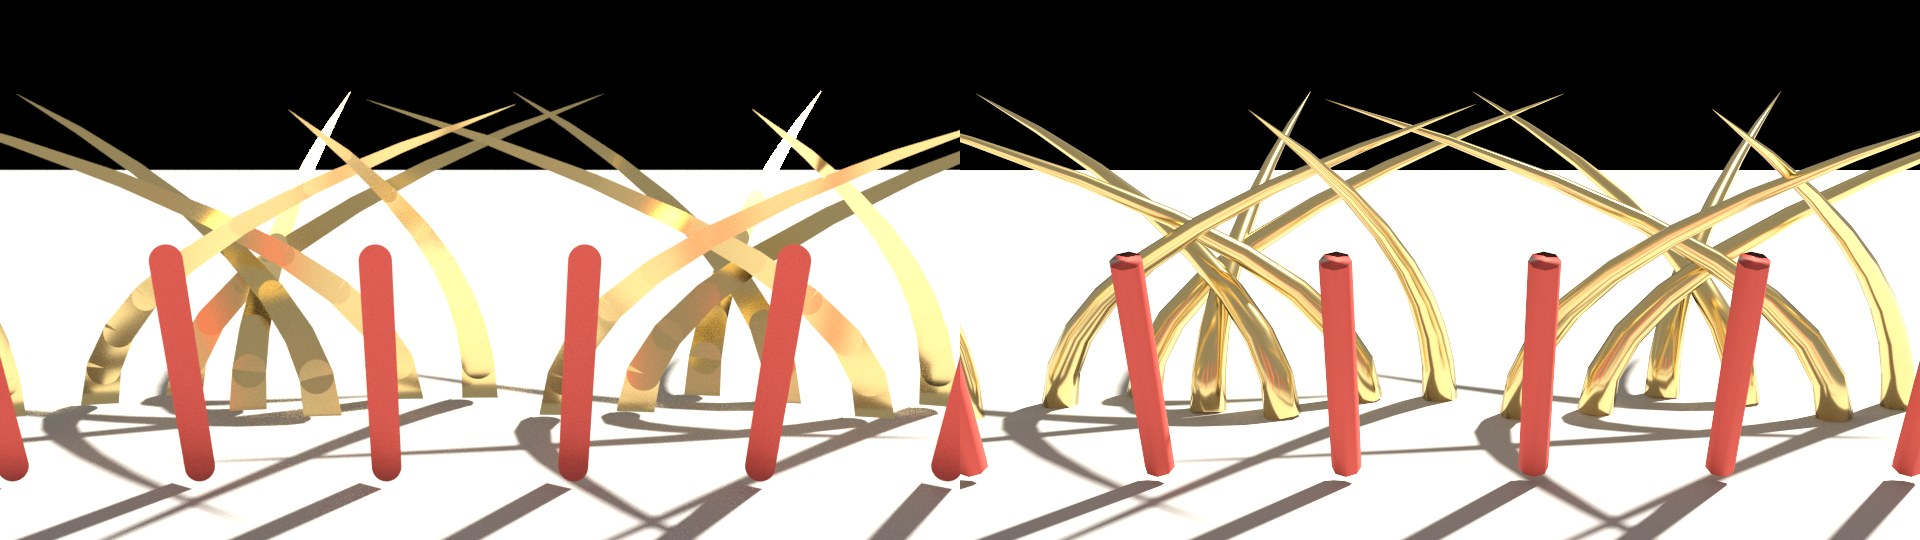
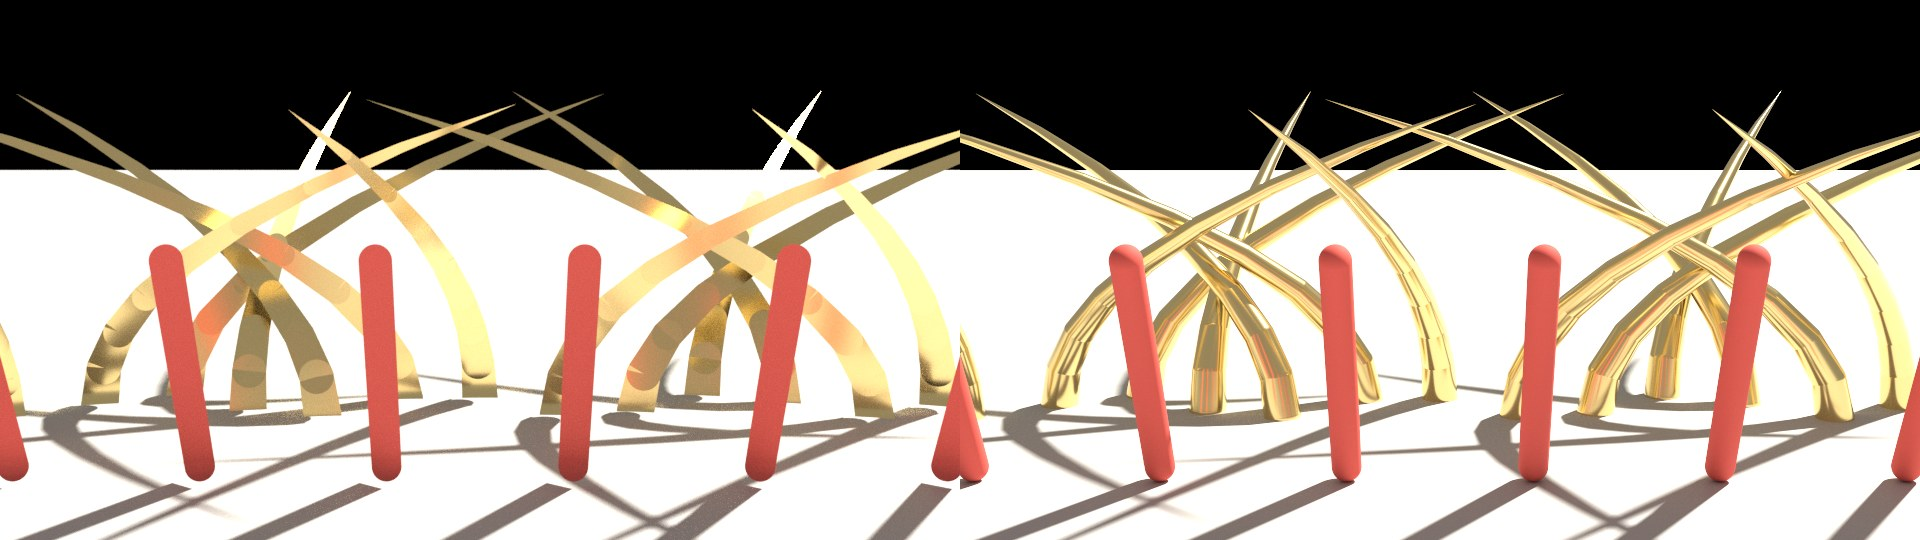
Draw even fog in MoonLightIPR, and have MoonRay fill a shape item that holds a volume
MoonLightIPR draws a BaseVolume with constant values in a MoonRay box or sphere shape: it dims and tints what is
behind it, scatters the lamps' light once with its anisotropy, glows with its emission, and thins the shadows that
pass through it. Against MoonRay: brightness 1.03 to 1.04, 80 to 89 per cent of the picture within a tenth.

MoonRay itself showed nothing for a volume on its own box or sphere, which it does not fill. Such a shape is now
written to MoonRay as a mesh of the same shape, which it does.

The READMEs say what is now drawn: curves as curves, hair, skin, fog and pictures on every kind of light.

diff --git a/kit/MoonRayForModo/python/moonray_modo/entities.py b/kit/MoonRayForModo/python/moonray_modo/entities.py
@@ -716,6 +716,17 @@ def emit_geometry(scene, materials, lines):
             from . import primitive_attributes
             held = primitive_attributes.emit('/modo/entity/%s/attribute' % entity['identity'], [entity['attributes']], lines)
         name, body = block(entities, entity)
+        if entity['parameters'].get('modo_volume') and entity['class'] in ('BoxGeometry', 'SphereGeometry'):
+            # MoonRay fills a mesh with a volume but not its own box or sphere, in which nothing shows. A shape that
+            # holds one is therefore written as the mesh of that shape.
+            from .rdla import matrix
+            vertices, faces = box(value(entity, 'size')) if entity['class'] == 'BoxGeometry' else sphere(float(value(entity, 'radius')))
+            name = 'RdlMeshGeometry(%s)' % string('/modo/entity/' + entity['identity'])
+            body = [name + ' {', '  ["node_xform"] = %s,' % matrix(entity.get('matrix', IDENTITY)),
+                    '  ["vertex_list_0"] = {%s},' % ', '.join('Vec3(%r, %r, %r)' % tuple(float(v) for v in vertex) for vertex in vertices),
+                    '  ["vertices_by_index"] = {%s},' % ', '.join(str(index) for face in faces for index in face),
+                    '  ["face_vertex_count"] = {%s},' % ', '.join(str(len(face)) for face in faces),
+                    '  ["is_subd"] = false,', '}']
         tag = entity['parameters'].get('modo_material', '')
         if tag not in materials:
             tag = ''
@@ -799,6 +810,24 @@ def sphere(radius, segments=48, rings=24):
     return vertices, faces
 
 
+def even_fog(entities, name):
+    """The volume of that name as an even fog: what it stops in a unit of distance, what of that it scatters on, what
+    it gives off and which way it scatters. None unless it is a BaseVolume with one value all through, without ramps."""
+    from .working_space import color as working_color
+    found = next((e for e in entities if e['name'] == name and e['class'] == 'BaseVolume'), None)
+    if found is None or value(found, 'use_attenuation_ramp') or value(found, 'use_diffuse_ramp') or found['parameters'].get('densities'):
+        return None
+    white = [1.0, 1.0, 1.0]
+    stops = [float(v) for v in (value(found, 'attenuation_color') or white)]
+    if value(found, 'invert_attenuation_color'):
+        stops = [1.0 - v for v in stops]
+    strength = float(value(found, 'attenuation_intensity')) * float(value(found, 'attenuation_factor'))
+    return {'extinction': [max(0.0, v) * strength for v in working_color(stops)],
+            'albedo': working_color([float(v) for v in (value(found, 'diffuse_color') or white)]),
+            'emission': [v * float(value(found, 'emission_intensity')) for v in working_color([float(v) for v in (value(found, 'emission_color') or [0.0] * 3)])],
+            'anisotropy': float(value(found, 'anisotropy') or 0.0)}
+
+
 def emitting_area(name, light):
     """What MoonRay divides a normalized light's brightness by: pi times its surface, or for a distant light the squared
     sine of its disc's radius. None for a kind of light this is not worked out for."""
@@ -826,6 +855,7 @@ def preview(scene, warnings):
     if not entities:
         return scene
     lights, environments, meshes = list(scene.get('lights', [])), list(scene.get('environments', [])), list(scene.get('meshes', []))
+    materials = dict(scene.get('materials', {}))
     scene = mesh_lights(scene, warnings)
     skipped = {}
     camera = scene['camera']
@@ -882,12 +912,18 @@ def preview(scene, warnings):
                 light['soft_edge'] = max(0.0, light['cone'] - float(value(entity, 'inner_cone_angle'))) / 2
             lights.append(light)
         elif name in ('BoxGeometry', 'SphereGeometry'):
-            if entity['parameters'].get('modo_volume'):
-                skipped.setdefault('volumes', []).append(label)
-                continue
             vertices, faces = box(value(entity, 'size')) if name == 'BoxGeometry' else sphere(float(value(entity, 'radius')))
             mesh = {'name': label, 'identity': entity['identity'], 'vertices': vertices, 'faces': faces, 'matrix': matrix,
                     'material': entity['parameters'].get('modo_material', ''), 'smooth': name == 'SphereGeometry'}
+            if entity['parameters'].get('modo_volume'):
+                # A shape that holds a fog and has no material is the fog alone, which MoonLightIPR draws when it is
+                # the same all through.
+                fog = even_fog(entities_checked, entity['parameters']['modo_volume'])
+                if fog is None or entity['parameters'].get('modo_material'):
+                    skipped.setdefault('volumes', []).append(label)
+                    continue
+                mesh['material'] = '|volume|' + entity['identity']
+                materials[mesh['material']] = {'color': [0.0, 0.0, 0.0], 'roughness': 1.0, 'metallic': 0, '_volume': fog}
             meshes.append(mesh)
         elif category == 'lightfilter':
             # A filter shows through the lights that name it; what cannot be applied is said there.
@@ -905,4 +941,4 @@ def preview(scene, warnings):
             skipped.setdefault(name, []).append(label)
     for name, labels in sorted(skipped.items()):
         warnings.append('MoonLightIPR does not show %s (%s).' % (name, ', '.join(labels[:6]) + (' ...' if len(labels) > 6 else '')))
-    return dict(scene, camera=camera, lights=lights, environments=environments, meshes=meshes, entities=[])
+    return dict(scene, camera=camera, lights=lights, environments=environments, meshes=meshes, materials=materials, entities=[])

diff --git a/moonlightipr/src/renderer.cpp b/moonlightipr/src/renderer.cpp
@@ -230,7 +230,7 @@ struct Renderer::Impl {
     std::vector<int32_t> distantTextures;
     std::vector<Instance> instances;
     size_t materialCount = 0, layerCount = 0, lightCount = 0;
-    Buffer meshTable, instanceTable, materialTable, layerTable, tileTable, hairTable, albedoTables, instanceInput, instanceAccel, accelTemp;
+    Buffer meshTable, instanceTable, materialTable, layerTable, tileTable, hairTable, volumeTable, albedoTables, instanceInput, instanceAccel, accelTemp;
     Buffer envPixels, envBackground, envMarginal, envConditional, distantLights, lights, lightTriangles, lightFilters;
     Buffer beauty, albedo, normal, denoised, lighting, paramsBuffer;
 
@@ -264,7 +264,8 @@ struct Renderer::Impl {
         moduleOptions.maxRegisterCount = OPTIX_COMPILE_DEFAULT_MAX_REGISTER_COUNT;
         OptixPipelineCompileOptions pipelineOptions = {};
         pipelineOptions.traversableGraphFlags = OPTIX_TRAVERSABLE_GRAPH_FLAG_ALLOW_SINGLE_LEVEL_INSTANCING;
-        pipelineOptions.numPayloadValues = 2;
+        // Two words carry a radiance ray's hit record; a ray looking for a light uses all eight to add up the fog it crosses.
+        pipelineOptions.numPayloadValues = 8;
         pipelineOptions.numAttributeValues = 2;
         pipelineOptions.exceptionFlags = OPTIX_EXCEPTION_FLAG_NONE;
         pipelineOptions.pipelineLaunchParamsVariableName = "params";
@@ -345,8 +346,9 @@ struct Renderer::Impl {
 
     // refit moves an existing structure to the vertices now in the mesh's buffer.
     void buildMesh(Mesh& mesh, size_t vertexCount, size_t triangleCount, bool refit = false) {
-        // Rays switch the any-hit test off themselves unless the scene has a partly absent material.
-        const unsigned flags = OPTIX_GEOMETRY_FLAG_NONE;
+        // Rays switch the any-hit test off themselves unless the scene has a partly absent material or a fog, whose
+        // edges must each be counted once.
+        const unsigned flags = OPTIX_GEOMETRY_FLAG_REQUIRE_SINGLE_ANYHIT_CALL;
         OptixBuildInput input = {};
         input.type = OPTIX_BUILD_INPUT_TYPE_TRIANGLES;
         input.triangleArray.vertexBuffers = &mesh.positions.ptr;
@@ -807,6 +809,22 @@ void Renderer::setMaterials(const Material* materials, size_t count, const Layer
     }
     impl->hairTable.upload(hairs);
     impl->params.hairs = impl->hairTable.ptr;
+    std::vector<DeviceVolume> volumes;
+    for (size_t i = 0; i < count; ++i) {
+        if (!materials[i].volume) continue;
+        DeviceVolume fog{};
+        for (int c = 0; c < 3; ++c) {
+            fog.extinction[c] = std::max(materials[i].volumeExtinction[c], 0.0f);
+            fog.albedo[c] = std::clamp(materials[i].volumeAlbedo[c], 0.0f, 1.0f);
+            fog.emission[c] = std::max(materials[i].volumeEmission[c], 0.0f);
+        }
+        fog.anisotropy = std::clamp(materials[i].volumeAnisotropy, -0.99f, 0.99f);
+        table[i].flags = (table[i].flags & ~MATERIAL_HAIR) | MATERIAL_VOLUME;
+        table[i].hair = unsigned(volumes.size());
+        volumes.push_back(fog);
+    }
+    impl->volumeTable.upload(volumes);
+    impl->params.volumes = impl->volumeTable.ptr;
     // Layers and textures are followed on the GPU without checks, so settle them here.
     for (const DeviceMaterial& material : table)
         if (size_t(material.layerStart) + material.layerCount > layerCount) throw std::runtime_error("MoonLightIPR material refers to missing layers");
@@ -875,7 +893,7 @@ void Renderer::setMaterials(const Material* materials, size_t count, const Layer
         for (unsigned i = 0; i < material.layerCount; ++i)
             if (layerTable[material.layerStart + i].channel == CHANNEL_DISSOLVE) material.flags |= MATERIAL_HAS_PRESENCE;
             else if (layerTable[material.layerStart + i].channel == CHANNEL_BUMP && material.bumpStrength != 0.0f) material.flags |= MATERIAL_HAS_BUMP;
-        if (material.flags & MATERIAL_HAS_PRESENCE) impl->params.presence = 1;
+        if (material.flags & (MATERIAL_HAS_PRESENCE | MATERIAL_VOLUME)) impl->params.presence = 1;
     }
     impl->layerTable.upload(layerTable);
     impl->params.layers = impl->layerTable.ptr;

diff --git a/moonlightipr/src/device/shared.h b/moonlightipr/src/device/shared.h
@@ -24,6 +24,7 @@ const unsigned MATERIAL_THIN = 1, MATERIAL_COAT_DIMS = 2, MATERIAL_HAS_PRESENCE 
                MATERIAL_BECKMANN = 16,  // the specular lobe is Beckmann, as for material stacks, not GGX
                MATERIAL_CONDUCTOR = 32, // a metal reflects as DwaBaseMaterial's does, not by Schlick's curve
                MATERIAL_HAIR = 64,      // on a curve, the strand scatters light as a hair fibre does
+               MATERIAL_VOLUME = 128,   // the surface is only the edge of a fog that fills the shape
                MATERIAL_MATTE = 1u << 30;   // set by the kernel alone, where light leaves from beneath a surface
 const unsigned LAYER_IMAGE = 1, LAYER_INVERT = 2, LAYER_FLIP_RED = 4, LAYER_FLIP_GREEN = 8, LAYER_FLIP_BLUE = 16,
                LAYER_ALPHA_MASK = 32, LAYER_ALPHA_ONLY = 64, LAYER_COVERAGE_U = 128, LAYER_COVERAGE_V = 256,
@@ -90,7 +91,18 @@ struct DeviceMaterial {
     float absorptionDistance;   // depth of a solid at which light has its transmission colour; 0 for none
     float abbe;                 // Abbe number of a dispersive solid; 0 for none
     float specular;             // weight of the dielectric's reflection
-    unsigned hair;              // with MATERIAL_HAIR, this material's entry in LaunchParams::hairs
+    unsigned hair;              // with MATERIAL_HAIR, this material's entry in LaunchParams::hairs; with MATERIAL_VOLUME, in volumes
+};
+
+// An even fog, as MoonRay's BaseVolume with constant values: how much light it stops in a unit of distance, how
+// much of what it stops is scattered on rather than absorbed, what it gives off, and which way it scatters.
+struct DeviceVolume {
+    float extinction[3];
+    float anisotropy;           // -1 back the way the light came, 0 evenly, 1 straight on
+    float albedo[3];
+    float pad0;
+    float emission[3];
+    float pad1;
 };
 
 // A hair fibre, as MoonRay's HairMaterial: light reflected off it (R), passed through it (TT), reflected once
@@ -200,6 +212,7 @@ struct LaunchParams {
     DevicePtr layers;       // DeviceLayer, indexed from DeviceMaterial::layerStart
     DevicePtr albedo2;      // float, two ALBEDO_TABLE runs: GGX, then Beckmann
     DevicePtr hairs;        // DeviceHair, indexed by DeviceMaterial::hair
+    DevicePtr volumes;      // DeviceVolume, likewise
 
     // Latitude-longitude environment with a piecewise-constant sampling distribution.
     DevicePtr envPixels;        // float[4], envWidth * envHeight; what lights the scene
@@ -232,7 +245,7 @@ struct LaunchParams {
     unsigned maxDiffuseDepth;   // of those, how many may leave a diffuse lobe
     unsigned maxGlossyDepth;    // and how many a specular lobe
     float sampleClamp;      // largest value of one light sample after the first bounce; 0 is unlimited
-    unsigned presence;      // some material can be partly absent, so rays must run the any-hit test
+    unsigned presence;      // some material can be partly absent or is a fog's edge, so rays must run the any-hit test
 
     unsigned long long traversable;
 

diff --git a/kit/MoonRayForModo/python/moonray_modo/moonlightipr_materials.py b/kit/MoonRayForModo/python/moonray_modo/moonlightipr_materials.py
@@ -28,7 +28,7 @@ FOLDED = {'diffCol': None, 'diffAmt': (-math.inf, math.inf), 'rough': (0, 1), 'm
           'coatRough': (0, 1), 'dissolve': (0, 1), 'aniso': (-1, 1), 'subsAmt': (0, 1), 'subsCol': None}
 LAYER_GROUP_BEGIN, LAYER_GROUP_END, LAYER_MASK_BASE, MASK_REGISTERS, GROUP_DEPTH = 32, 33, 40, 4, 4
 LAYER_MASKED, LAYER_MASK_SHIFT = 1 << 11, 12
-MATERIAL_THIN, MATERIAL_COAT_DIMS, MATERIAL_BECKMANN, MATERIAL_CONDUCTOR, MATERIAL_HAIR = 1, 2, 16, 32, 64
+MATERIAL_THIN, MATERIAL_COAT_DIMS, MATERIAL_BECKMANN, MATERIAL_CONDUCTOR, MATERIAL_HAIR, MATERIAL_VOLUME = 1, 2, 16, 32, 64, 128
 LAYER_INVERT, LAYER_FLIP_RED, LAYER_FLIP_GREEN, LAYER_FLIP_BLUE = 2, 4, 8, 16
 LAYER_ALPHA_MASK, LAYER_ALPHA_ONLY, LAYER_COVERAGE_U, LAYER_COVERAGE_V, LAYER_PICK_SHIFT = 32, 64, 128, 256, 9
 LAYER_RAMP, LAYER_CHECKER, LAYER_NOISE, LAYER_UDIM = 1 << 16, 1 << 17, 1 << 18, 1 << 19
@@ -926,7 +926,8 @@ class Compiler:
                   + [radius, depth, max(0.0, float(source.get('dispersion_abbe', 0))) if dwa else 0.0, min(1.0, max(0.0, weight))])
         if not all(math.isfinite(v) for v in values):
             raise ValueError('Material %s contains a non-finite number' % name)
-        record = struct.pack('<33f4I', *values, flags | (MATERIAL_HAIR if source.get('_hair') else 0), start, len(self.layers) - start,
+        fog = material.get('_volume')
+        record = struct.pack('<33f4I', *values, flags | (MATERIAL_HAIR if source.get('_hair') else 0) | (MATERIAL_VOLUME if fog else 0), start, len(self.layers) - start,
                              UV_SLOTS if tangent_slot is None else tangent_slot)
         fibre = source.get('_hair')
         if fibre:
@@ -935,4 +936,10 @@ class Compiler:
             if not all(math.isfinite(v) for v in numbers):
                 raise ValueError('Material %s contains a non-finite number' % name)
             record += struct.pack('<19f2I', *numbers, fibre['lobes'], fibre['fresnel'])
+        if fog:
+            # An even fog in place of a surface: what it stops, what of that it scatters on, what it gives off, and which way.
+            numbers = [float(v) for v in list(fog['extinction']) + list(fog['albedo']) + list(fog['emission']) + [fog['anisotropy']]]
+            if not all(math.isfinite(v) for v in numbers):
+                raise ValueError('Material %s contains a non-finite number' % name)
+            record += struct.pack('<10f', *numbers)
         return record

diff --git a/tools/compare_moonlightipr.py b/tools/compare_moonlightipr.py
@@ -375,6 +375,14 @@ def scenes(folder):
                    'color': [.5, .5, .5], 'roughness': .4, 'native_shader': 'HairMaterial_v3', 'native_parameters': dict(values, hair_color=colour)}),
                extra_geometry=[tuft()])
            for name, colour, values in (('dark', [.25, .12, .05], {}), ('fair', [.85, .7, .45], {'primary_specular_roughness': .3}))},
+        # Fog: a block of it between the camera and the scene, lit by the sun and a lamp, thin and thick and coloured.
+        **{'fog_' + name: dict(base, lights=fixture.snapshot()['lights'] + [
+               dict(lamp, identity='side', kind='SphereLight', intensity=80.0, radius=.3, matrix=fixture.placed(-3.0, 2.5, 2.5))], _environment=.3,
+               entities=[{'identity': 'v_fog', 'name': 'Mist', 'class': 'BaseVolume', 'parameters': values},
+                         {'identity': 'g_block', 'name': 'Cloud', 'class': 'BoxGeometry', 'matrix': fixture.placed(0, 1.6, 2.5),
+                          'parameters': {'size': [2.6, 2.6, 2.6], 'modo_volume': 'Mist'}}])
+           for name, values in (('thin', {'attenuation_intensity': .4}), ('thick', {'attenuation_intensity': 2.5}),
+                                ('coloured', {'attenuation_intensity': 1.2, 'attenuation_color': [1.0, .6, .3], 'diffuse_color': [.5, .7, 1.0], 'anisotropy': .4}))},
         'uniform_sky': dict(base, _environment=1.0),
         'gradient_sky': dict(base, environments=fixture.snapshot()['environments']),
         'sphere_light': dict(base, lights=[dict(lamp, kind='SphereLight', intensity=60.0, radius=.4, matrix=fixture.placed(-1, 5, 3))]),

diff --git a/tests/test_moonlightipr.py b/tests/test_moonlightipr.py
@@ -103,7 +103,8 @@ class EntityTests(unittest.TestCase):
         self.assertNotIn('PerspectiveCamera("/modo/camera")',text)
         self.assertIn('["light_filters"] = {RodLightFilter("/modo/entity/rod")}',text)
         self.assertIn('table.insert(lights, SpotLight("/modo/entity/key"))',text)
-        self.assertIn('table.insert(assignments, {BoxGeometry("/modo/entity/box"), "", materials["red"], lightSet, BaseVolume("/modo/entity/fog")})',text)
+        # MoonRay fills a mesh with a volume but not its own box, so a box that holds one goes as a mesh.
+        self.assertIn('table.insert(assignments, {RdlMeshGeometry("/modo/entity/box"), "", materials["red"], lightSet, BaseVolume("/modo/entity/fog")})',text)
         self.assertLess(text.index('table.insert(lights, EnvLight("/modo/entity/env"))'),text.index('local lightSet'))
         # A volume shader has no place, so it must not be given a transform.
         self.assertNotIn('node_xform',text[text.index('BaseVolume("/modo/entity/fog") {'):text.index('BoxGeometry("/modo/entity/box") {')])

diff --git a/moonlightipr/include/moonlightipr/moonlightipr.h b/moonlightipr/include/moonlightipr/moonlightipr.h
@@ -68,6 +68,15 @@ struct Material {
     float hairSaturation = 1.0f;
     uint32_t hairLobes = 15;
     uint32_t hairFresnel = 1;               // 0 by the angle along the fibre alone; otherwise as a cylinder
+    // An even fog filling a closed mesh, as MoonRay's BaseVolume with constant values, in place of a surface: the
+    // mesh itself is not seen. How much light the fog stops in a unit of distance, how much of that is scattered
+    // on, what it gives off, and which way it scatters (-1 back, 0 evenly, 1 on). Light scatters in it once. A
+    // camera inside the fog does not see it.
+    bool volume = false;
+    float volumeExtinction[3] = {1, 1, 1};
+    float volumeAlbedo[3] = {1, 1, 1};
+    float volumeEmission[3] = {0, 0, 0};
+    float volumeAnisotropy = 0.0f;
 };
 
 // An image on the GPU. Pixels are RGBA, top row first: bytes, or floats when floatData is set.

diff --git a/moonlightipr/session/scene_loader.cpp b/moonlightipr/session/scene_loader.cpp
@@ -262,6 +262,14 @@ SceneSettings SceneLoader::apply(const std::string& path) {
             material.hairLobes = in.value<uint32_t>();
             material.hairFresnel = in.value<uint32_t>();
         }
+        if (materialFlags & 128) {
+            // An even fog in place of a surface.
+            material.volume = true;
+            in.floats(material.volumeExtinction, 3);
+            in.floats(material.volumeAlbedo, 3);
+            in.floats(material.volumeEmission, 3);
+            material.volumeAnisotropy = in.value<float>();
+        }
     }
     std::vector<Layer> layers(in.value<uint32_t>());
     for (Layer& layer : layers) {

diff --git a/moonlightipr/README.md b/moonlightipr/README.md
@@ -29,8 +29,9 @@ build to an installed kit during development.
 - It draws Modo's standard and Principled materials, MoonRay's Dwa surface materials,
   material stacks from the Shader Tree, imported MaterialX graphs, MoonRay's own light
   items, curves and hair, subdivision surfaces, depth of field and motion blur.
-- It does not draw volumes, has no hair shading model (hair wears the ordinary surface
-  shader), and produces beauty only: other buffers and Cryptomatte need MoonRay.
+- It shades hair as MoonRay's hair material does, reads MoonRay's skin material, draws curves as
+  curves and draws an even fog in a MoonRay box or sphere shape. VDB volumes it does not draw.
+- It produces beauty only: other buffers and Cryptomatte need MoonRay.
 - Agreement with MoonRay is measured, scene by scene, further down. It is close on
   lights and plain materials and looser on layered materials and glass.
 - It has been run on one GPU, an RTX 3090.
@@ -289,14 +290,37 @@ Everything else is reported in the packer's warnings rather than dropped silentl
 the alpha of baked procedural layers, layers on channels the shader lacks (specular
 colour, coat normals, diffuse roughness), native shaders other than the Dwa surface ones, a third environment image (shown as uniform grey), light filters other than intensity, decay and colour ramp,
 moving lights during the shutter,
-volumes, film offset and the render region. Orthographic cameras are refused.
+VDB volumes, film offset and the render region. Orthographic cameras are refused.
 
 Added to what is translated since the table was written:
 
-- **Curves** (a mesh's curves, splines and line polygons, and hair grown from guides): tubes
-  of polygons, eight sides or four, capped, with the object's width, taper and UVs. They are
-  not true curves, and they wear the ordinary surface shader.
-  ![Curves as tubes](../docs/images/moonlightipr-curves.jpg)
+- **Curves** (a mesh's curves, splines and line polygons, and hair grown from guides): true
+  curves on the GPU, with the object's width and taper and each strand's UV. The line through a
+  strand's points is round straight segments with rounded joints; B-spline and Bezier strands are
+  round cubic segments. MoonRay's default is a flat ribbon facing the ray, so a thick strand's
+  shading differs across its width.
+  ![Curves, MoonRay left and MoonLightIPR right](../docs/images/moonlightipr-curves.jpg)
+- **Hair**: on curves, `HairMaterial_v3` is a hair fibre with MoonRay's four lobes (light
+  reflected off the fibre, passed through it, reflected once inside it, and the rest), by the
+  formulas of MoonRay's own hair code and its rules for each lobe's roughness and offset. Hair
+  colour can be textured. Glints, the saturation of direct transmission and layered cuticles
+  are reported as left out. `HairDiffuseMaterial` is its colour on a matte strand. Measured on
+  a head of 2,500 strands: brightness 1.02 of MoonRay's, 77% (dark) and 80% (fair) of tiles
+  within a tenth.
+  ![Hair, MoonRay left and MoonLightIPR right](../docs/images/moonlightipr-hair_dark.jpg)
+- **Skin**: `DwaSkinMaterial` is read as itself: albedo, scattering beneath the surface, and
+  moisture as a clear coat. Brightness 0.98, 98% of tiles within a tenth.
+- **Volumes**: a `BaseVolume` with constant values, on a MoonRay box or sphere shape that has
+  no material, is an even fog: it dims and tints what is behind it, scatters the lights' light
+  once (MoonRay's default) with its anisotropy, glows with its emission, and thins shadows.
+  Brightness 1.03 to 1.04, 80 to 89% of tiles within a tenth. Not drawn: VDB volumes, volumes
+  with ramps, a volume inside a shape that also has a surface material, and fog seen from a
+  camera inside it.
+  ![Fog, MoonRay left and MoonLightIPR right](../docs/images/moonlightipr-fog_coloured.jpg)
+- **Pictures on lights**: sphere, disk, spot, cylinder and distant lights show their texture as
+  rect lights did, each laid out as MoonRay lays it (91 to 95% of tiles within a tenth). A
+  distant light with `normalized` off is as bright as MoonRay makes it (98%).
+  ![A picture on a sphere light](../docs/images/moonlightipr-textured_spherelight.jpg)
 - **Imported MaterialX graphs**: UVs that nodes move, turn or scale, and arithmetic between
   images (one blended into another through a third, an image brought into a range, masks
   taken away), as a layer stack at the images' own sharpness.
@@ -399,11 +423,9 @@ recapture, which waits for release. Why it was classified so was not established
 
 ## Not done yet
 
-- A hair shading model, then skin: hair and curves wear the ordinary surface shader.
-- True curve primitives in place of tubes of polygons.
-- Non-normalized distant lights; textures on lights other than rect lights.
+- VDB volumes, volumes with ramps, and fog seen from inside it; hair glints.
 - The layer features listed above as reported; rod, barn door, cookie, VDB and combined
-  light filters; volumes.
+  light filters.
 - Motion blur during IPR updates, moving lights, and a comparison of motion blur with MoonRay.
 - A test of OCIO colour spaces, and of UDIM against a MoonRay that loads the tiles.
 - Comparison against MoonRay on scenes captured from Modo. The comparisons above use

diff --git a/README.md b/README.md
@@ -87,7 +87,7 @@ In each pair, MoonRay's render of the scene from its own files is on the left; o
 ## Limitations
 
 - **Windows and Modo 16.1v9 only.** XPU and MoonLightIPR need an NVIDIA GPU; they have been exercised on an RTX 3090 only.
-- **MoonLightIPR is an approximation.** It matches MoonRay closely on many scenes but not all; it has no volumes, no hair shading model, no subsurface scattering, and shows curves as tubes of polygons. Some light filters and textures on lights other than rect lights are left out; it lists what it leaves out in the preview's notices.
+- **MoonLightIPR is an approximation.** It matches MoonRay closely on many scenes but not all; it draws only even fog (no VDB volumes), and its hair, skin and curves follow MoonRay's closely but not exactly. Some light filters and textures on lights other than rect lights are left out; it lists what it leaves out in the preview's notices.
 - **Modo parity is partial.** Only Modo's own lights and standard/Principled materials are matched. Blinn and Ashikhmin highlights are not calibrated, anisotropy is untested, rough environment reflections come out dimmer in MoonRay, and remaining Shader Tree effects, some masks and light linking are not translated.
 - **MaterialX is a supported subset**: Standard Surface graphs made of images, arithmetic and UV transforms. OpenPBR and glTF surfaces, and nodes outside that subset, are not read.
 - **RDL import leaves some things out**, and names each in its report: motion (the scene comes in as it stands at shutter open), values that differ face by face or point by point, subdivision creases, authored normals, light linking and shadow sets, instancing from point files, and classes the plugin has no item for. Per-item values an imported scene brings render correctly but have no form in Modo yet. Opening a large scene's files takes minutes before the import proper begins.
@@ -97,7 +97,7 @@ In each pair, MoonRay's render of the scene from its own files is on the left; o
 
 ## Still to implement
 
-- A hair shading model and skin (subsurface) in MoonLightIPR, and volumes there.
+- VDB volumes, volumes with ramps and hair glints in MoonLightIPR.
 - One-click outputs for indirect diffuse and specular, shadows, albedo, subsurface and motion vectors.
 - OpenPBR and glTF MaterialX surfaces.
 - Per-face and per-point values (primitive attributes) on meshes, and a form for editing the values items carry.
